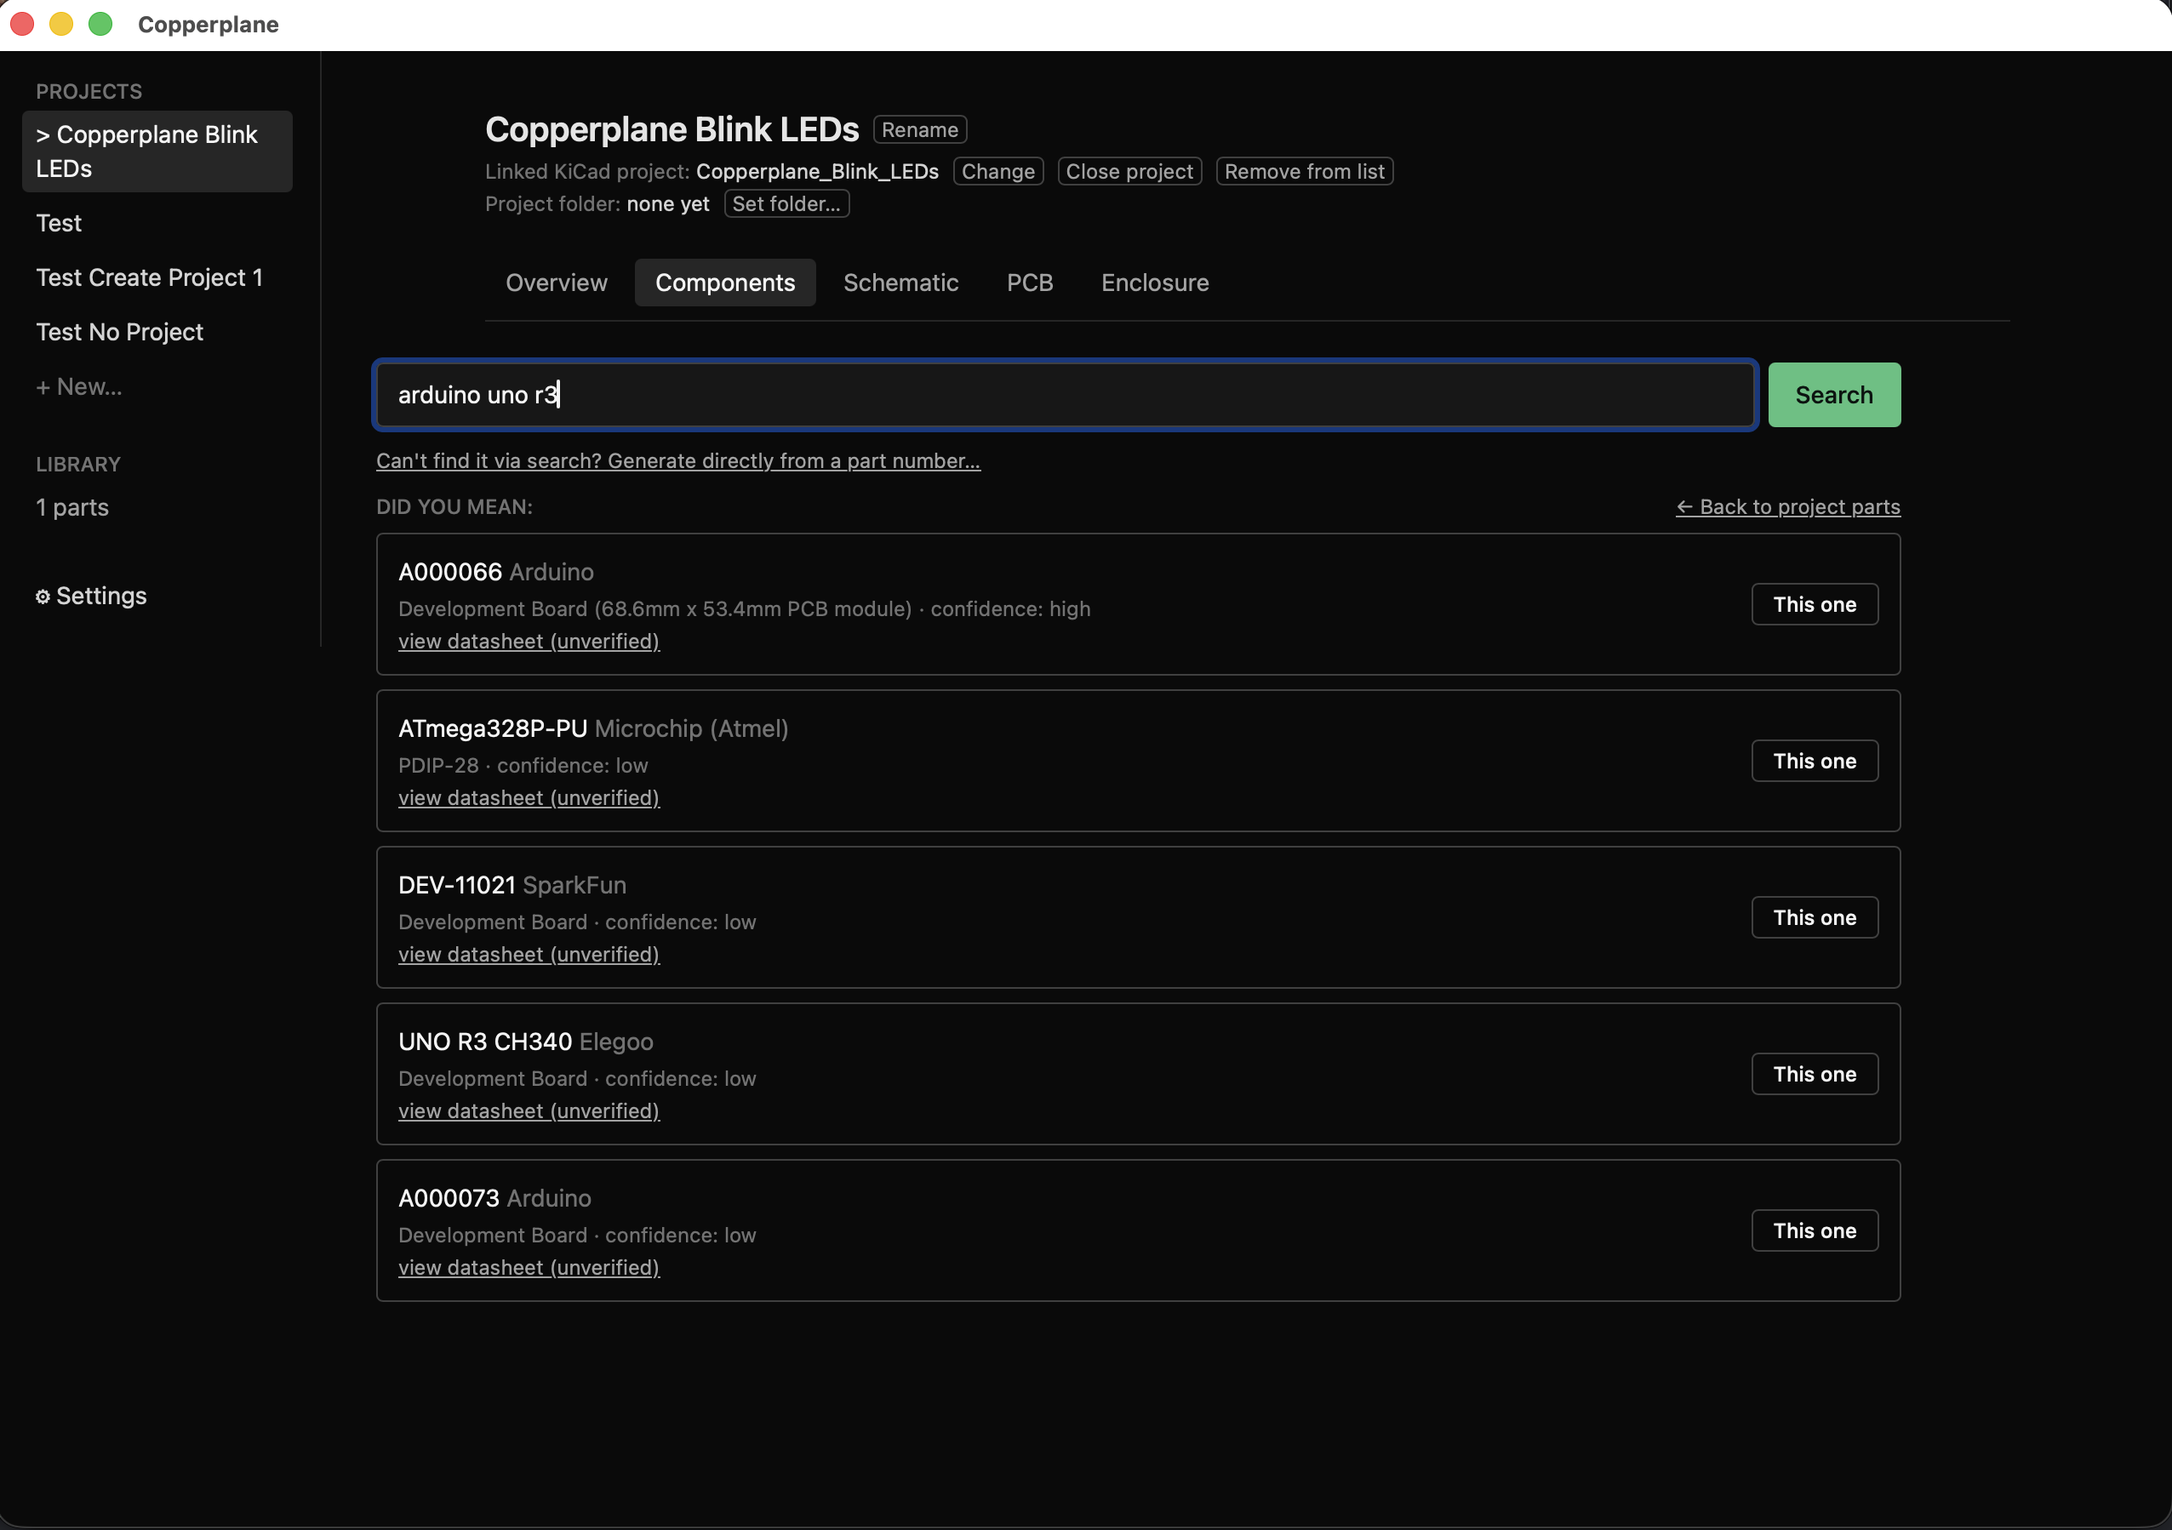
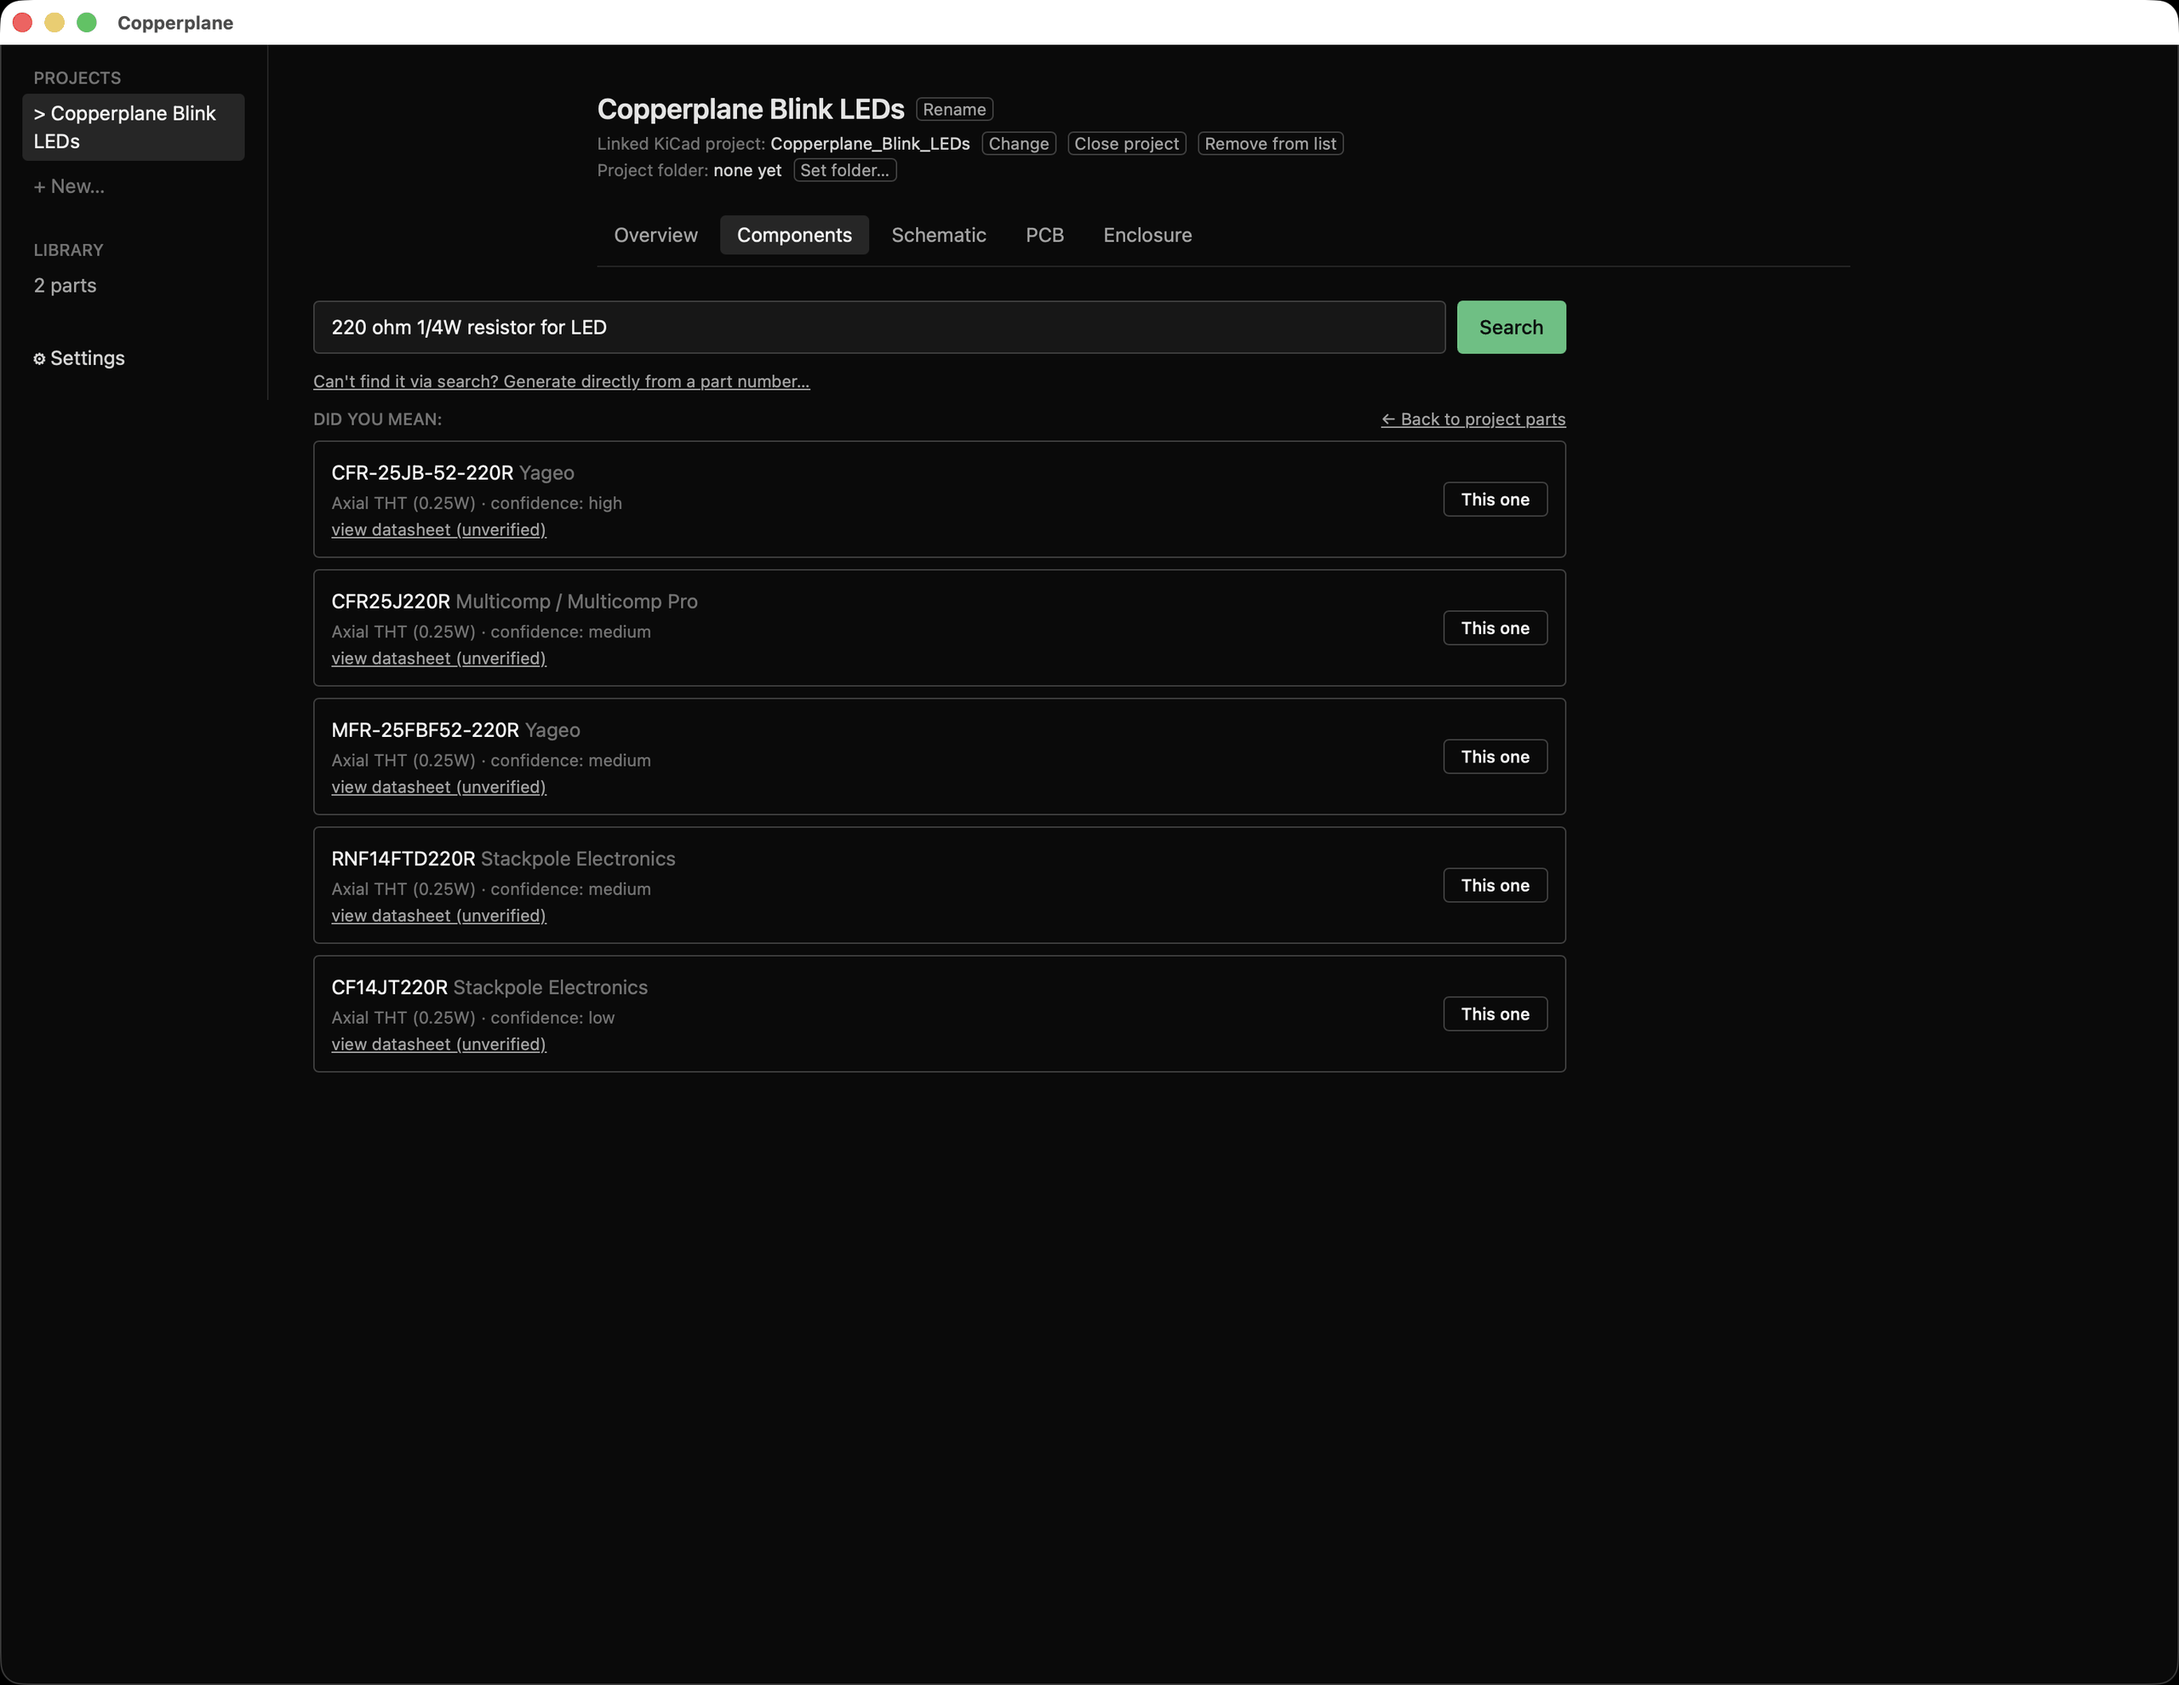
docs(SPEC-408): the rest of the 2026-09-11 re-shoot
Fifteen images replaced, so seventeen of eighteen are now the current app.
Every one of them showed a surface that had changed since 2026-09-04 --
the board-house banner on the checks, KiCad's own libraries in search, the
glossary on a footprint, the labelled bounding solids in the enclosure
preview.

Six carried the maintainer's username in a visible path and were redacted
before anything else, at full resolution. That needs pytesseract, which is
in none of this repo's virtualenvs and must not be added to .build-venv --
that is what freezes the shipped sidecar -- so it ran from a throwaway venv
outside the repo. The script reported no leaks and nothing it could barely
read, which is the half of its output that matters.

The pipeline is now written down in SCREENSHOTS.md, because the raw
captures do not match the set already here and working that out costs an
hour: crop away the drop shadow to where alpha is opaque, flatten, 2560
wide, palette PNG. Text-dense screens need a smaller palette to come under
the size limit -- 128, 96 and 64 colours for three of them, checked at 1:1
for banding rather than assumed.

ask-the-agent.png is 413KB against a 400KB target and is named as the one
exception. It is very tall and very text-dense; 64 colours is as far as the
palette goes before the text suffers, and the alternative is making it
narrower than every other image here.

Two are still from 2026-09-04 and are named rather than left to be found.
[…]

diff --git a/docs/site/SCREENSHOTS.md b/docs/site/SCREENSHOTS.md
@@ -4,55 +4,31 @@ Not published — this file is documentation for whoever is holding the camera, 
 for a reader of the site. Images themselves go in `public/images/` and are
 referenced from a page as `/copperplane/images/<name>.png`.
 
-## Status, 2026-09-11
+## Status, 2026-09-12
 
-Eighteen images, all captured **2026-09-04**. Eleven are dead, four are probably
-fine, and the app has grown surfaces since that have never been photographed at
-all. Each claim below is tied to the commit that invalidated the shot, so this
-section can be re-derived rather than trusted.
+**Seventeen of eighteen images are the 2026-09-11 re-shoot.** Two remain from 2026-09-04 because
+nothing in that session captured them, and they are named below rather than left to be discovered.
 
-### Dead: the component behind them changed
+### Still from 2026-09-04, and still wrong
 
-| File | Invalidated by |
+| File | Why it was not replaced |
 | :--- | :--- |
-| ~~`hero.png`~~ | **Retaken 2026-09-12** — see the note below. |
-| `welcome.png` | `CTX-338.1` — the Copperplane mark on the launch screen |
-| `no-project.png` | `CTX-338.1` — the same mark on the no-project landing |
-| `board-check.png` | `SPEC-340` — the board-house picker and the fabrication summary banner |
-| `board-check-explained.png` | `SPEC-340` — same, plus `ViolationsList` changes |
-| `schematic-erc.png` | `SPEC-340` — `SchematicAdvisor` and `ViolationsList` |
-| `component-search.png` | `SPEC-334` (KiCad's own libraries in results) and `SPEC-306` (a dead datasheet link became a live search) |
-| `part-detail.png` | `SPEC-334.2` glossary, `CTX-339.1` review persistence |
-| `enclosure.png` | `SPEC-326` — the labelled bounding solids |
-| `enclosure-3d.png` | `SPEC-326` — same |
-| `settings.png` | `SPEC-342` — the board-house library lives here now |
+| `settings.png` | No Settings screen was captured. It also moved: `SPEC-342` put the board-house library there, so the old shot is wrong about what the screen contains, not merely dated. |
+| `new-project-review.png` | The wizard's steps 1-3 were captured; **step 4 of 4, "Reviewing your project"**, was not. That step is the shot — the wizard's own check pass, with parity, component count and the ERC/DRC counts. |
 
-**`welcome.png` and `no-project.png` are worth a note.** They were captured at
-**23:26** on 2026-09-04; `CTX-338.1`, the commit that put the mark on those two
-exact screens, landed at **23:39**. Thirteen minutes. The shots are of the
-screens the commit was about, taken just before it.
+### Never captured, and not yet referenced by any page
 
-### Probably fine — check, do not assume
+These surfaces were photographed on 2026-09-11 and are sitting in the capture folder, but adding
+them means **editing a page to reference them** — `test_docs_images.py` fails an image nobody uses,
+in both directions. That is a docs change rather than a screenshot change, so it is listed and not
+done.
 
-`guided-provider.png`, `guided-tools.png`, `new-project.png`,
-`new-project-review.png`, `schematic-check.png`, `design-guidance.png`,
-`ask-the-agent.png`. No component behind them has changed since the capture.
-Compare against the running app before keeping them.
-
-### Never captured: surfaces that did not exist on 2026-09-04
-
-These are the gap that matters, because the site cannot show the app's most
-distinctive feature at all.
-
-| Needed | What to set up |
-| :--- | :--- |
-| **Overview with considerations** | Link `Copperplane_Blink_LEDs`. It raises R1's placeholder value and the `+5V`-on-`VIN` finding with no setup at all. The most important missing shot on the list. |
-| **What you got right** | Same screen — D1's series resistor, with the "checked here" line visible underneath. Frame both together if they fit. |
-| **The guided-path toggle** | Same screen, showing that it can be turned off. |
-| **The intent editor** | Overview, with the supply and current-budget fields. Leave them empty; empty is the honest default state. |
-| **Board-house picker** | PCB tab with a house selected, so the banner shows what changed against the generic profile. |
-| **The board-house library** | Settings. Show more than one house, so the picker reads as a library rather than a setting. |
-| **KiCad's own libraries in search** | Components tab. A query returning both your saved parts and KiCad's own footprints, so the merge is visible. |
+*   The suggested-parts card populated, with real suggestions against the tutorial project.
+*   The board-house library, and a house selected with the comparison table showing what differs
+    from KiCad's own defaults.
+*   The footprint glossary — *"What the abbreviations mean"* — expanded on a real part.
+*   KiCad's own footprint libraries appearing in search results beside saved parts.
+*   Overview at `board_only` and `both_checked`, if the guided path ever wants its own page.
 
 ### The hero
 
@@ -60,15 +36,27 @@ Retaken 2026-09-12 at 00:29, showing Overview at the `complete` state — a read
 unreachable until `CTX-343.3` fixed the card going stale, and whose evidence line was a word-for-word
 copy of its own heading until the same branch fixed that. Both are right in this capture.
 
-Processing worth repeating for the rest, since the raw captures do not match the existing set:
+## The pipeline the raw captures need
 
-*   `Cmd+Shift+4` + Space captures a **soft drop shadow and a transparent surround**. The existing
-    images have neither — crop to where alpha is fully opaque, which is the window itself, then
-    flatten onto black.
-*   Resize to **2560** wide to match the siblings, then save as a 256-colour palette PNG. A flat
-    dark UI loses nothing visible and drops from ~820KB to ~205KB, inside the 400KB this file asks
-    for. Straight RGB at that width is ~490KB and misses it. Check the small grey body text at 1:1
-    for banding before accepting the palette version.
+Recorded because the raw captures do **not** match the set already here, and finding that out costs
+an hour.
+
+1.  **Redact first, at full resolution.** `scripts/redact_screenshots.py` needs `pytesseract`, which
+    is in none of this repo's virtualenvs — and must not be added to `.build-venv`, which is what
+    freezes the shipped sidecar. Make a throwaway venv outside the repo. Of the fifteen shots
+    processed on 2026-09-12, **six** carried the username.
+2.  **Crop away the drop shadow.** `Cmd+Shift+4` + Space captures a soft shadow and a transparent
+    surround; nothing already in `public/images/` has either. The window is where alpha is fully
+    opaque — crop to that bounding box, then flatten onto black.
+3.  **Resize to 2560 wide**, which is what the existing images are.
+4.  **Save as a palette PNG.** A flat dark UI loses nothing visible. 256 colours suits most shots;
+    text-dense screens need fewer to come down — 128 for `schematic-erc`, 96 for `design-guidance`,
+    64 for `ask-the-agent`. Check the small grey body text at 1:1 for banding before accepting it;
+    at 64 colours it was still crisp.
+
+`ask-the-agent.png` is **413KB**, over the 400KB below, and is the one exception. It is a very tall,
+very text-dense screen; 64 colours is as far as the palette goes before the text suffers, and the
+alternative is a narrower image than every other file here.
 
 ## Dark theme, everywhere
 
@@ -134,7 +122,7 @@ now historical records rather than current screens.
 | `enclosure.png` | The generation form with the measured height hint |
 | `enclosure-3d.png` | The generated enclosure with the board seated inside |
 
-## One capture was rejected
+## One capture was rejected (2026-09-04 session)
 
 The Components tab shot (23:11:19) shows an empty search field, no results, and a leftover
 NE555 as the only project part -- which contradicts the eight components the wizard had just
